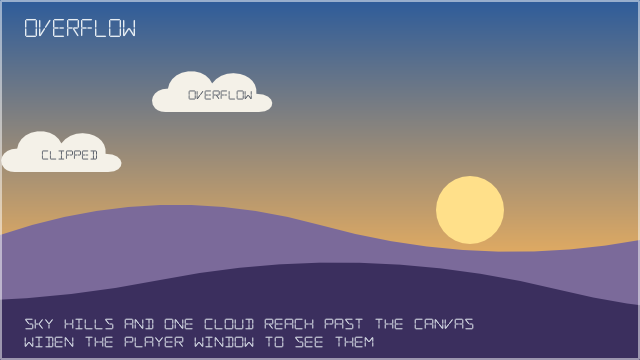
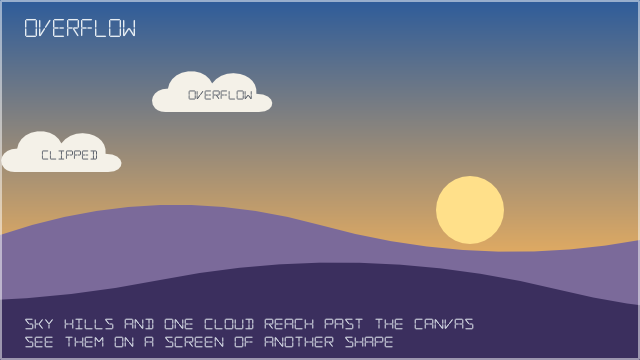
site: a screen selector shows letterboxing and overflow
Every example page can fit its show into a wider (21:9) or squarer (4:3)
screen, so a show's letterbox, and the layers that draw into it with
overflow, can be seen in the browser.

Changed region(s): [[0.25, 0.9167, 0.625, 0.9778], [0.0312, 0.9167, 0.2188, 0.9778]]

diff --git a/site/example.html b/site/example.html
@@ -25,6 +25,12 @@
     <button id="pause">pause</button>
     <input type="range" id="scrub" min="0" step="0.01" value="0" aria-label="show time" hidden>
     <span class="status clock" id="clock"></span>
+    <label class="status" for="screen">screen</label>
+    <select id="screen" title="The shape of the screen the show is fitted into: another shape letterboxes it, and layers with overflow draw into the bars">
+      <option value="">as authored</option>
+      <option value="21 / 9">wider</option>
+      <option value="4 / 3">squarer</option>
+    </select>
   </div>
 
   <div class="columns">
@@ -122,7 +128,7 @@ async function play() {
   player = undefined;
   for (const id of ["actions", "variables"]) $(id).replaceChildren();
   player = await CuelightPlayer.create($("canvas"), folder);
-  $("canvas").style.aspectRatio = `${player.width} / ${player.height}`;
+  $("canvas").style.aspectRatio = $("screen").value || `${player.width} / ${player.height}`;
   const warnings = player.warnings();
   warnings.forEach((warning) => log(warning, true));
   $("sound-note").hidden = !warnings.some((warning) => warning.includes("could not be decoded"));
@@ -162,6 +168,10 @@ async function play() {
 const FPS = 60;
 let resumeAfterScrub = false;
 $("pause").onclick = () => (player.paused ? player.resume() : player.pause());
+// Another screen shape: the player fits the show into it and letterboxes it.
+$("screen").onchange = () => {
+  $("canvas").style.aspectRatio = $("screen").value || `${player.width} / ${player.height}`;
+};
 $("scrub").onpointerdown = () => { resumeAfterScrub = !player.paused; player.pause(); };
 $("scrub").oninput = () => player.seek($("scrub").valueAsNumber, FPS);
 $("scrub").onchange = () => { if (resumeAfterScrub) player.resume(); resumeAfterScrub = false; };

diff --git a/site/site.css b/site/site.css
@@ -71,6 +71,7 @@ button.tab[aria-selected="true"] { color: var(--accent); }
 .transport .clock { min-width: 56px; text-align: right; font-variant-numeric: tabular-nums; }
 /* One width for "play" and "pause", so the bar beside it stays put. */
 #pause { width: 7ch; text-align: center; padding-left: 0; padding-right: 0; }
+.transport select { font: inherit; padding: 3px 6px; border-radius: 6px; border: 1px solid var(--line); background: #1b222c; color: var(--text); }
 #log { height: 9.5em; overflow: auto; font-size: 12px; white-space: pre-wrap; }
 #log:empty::after { content: "nothing yet"; color: var(--muted); }
 #log .error { color: var(--error); }
